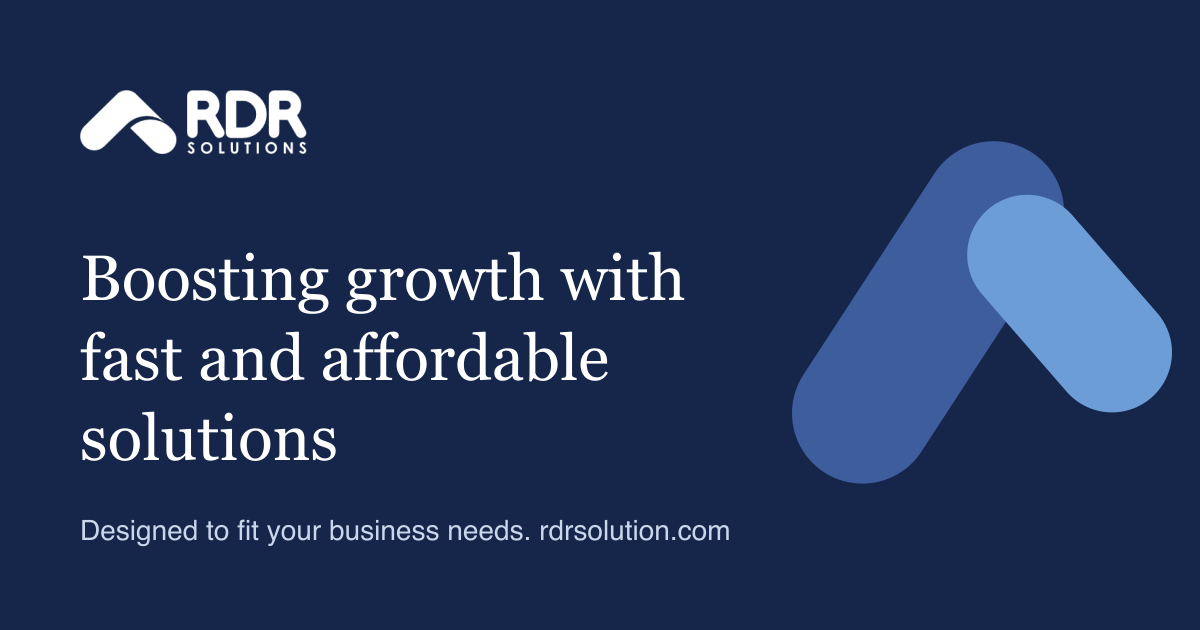
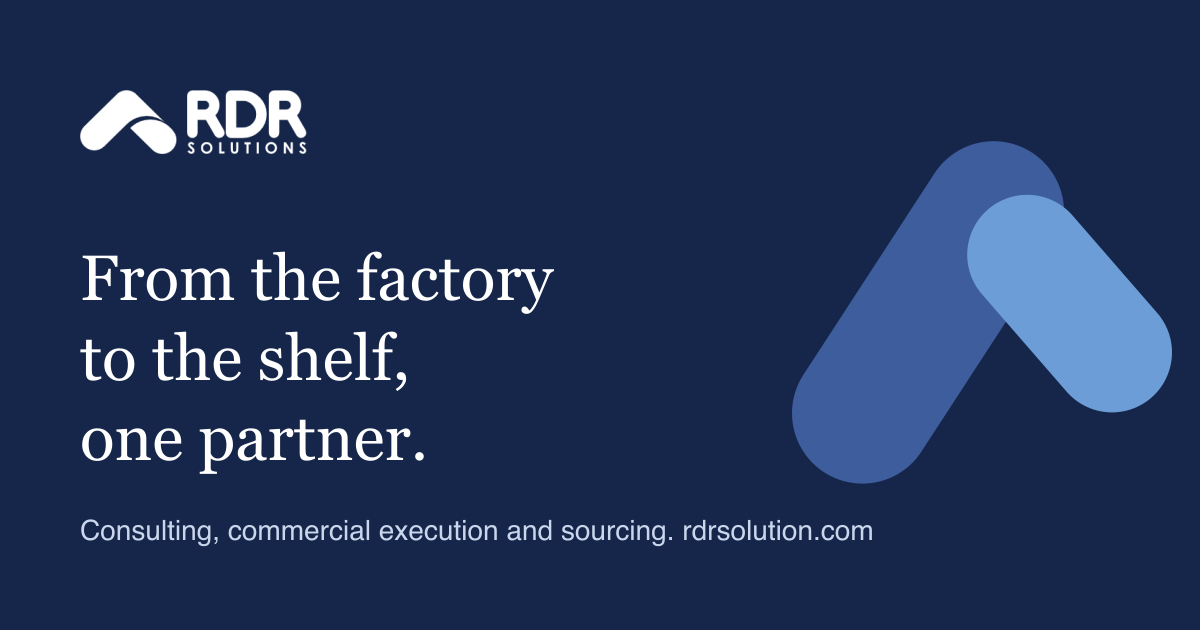
Phase 2: hero repositioning and signature load
- H1 'From the factory to the shelf, one partner.' at clamp(44px,6vw,76px)
- New subhead and meta/OG copy for consumer-brand positioning
- Logo-mark visual 560x640 at >=1280px (420x480 at 1024-1279 to keep
  H1 to 3 lines), above the H1 at 280px on mobile
- Global-brand logo strip under CTAs, scroll-snap on small screens
- Mark draws in 900ms cubic-bezier(0.22,1,0.36,1), then photo fades in
- Container widened to 80rem so the strip fits one row on desktop

Changed region(s): [[0.0617, 0.3921, 0.5858, 0.6032], [0.0617, 0.8143, 0.74, 0.8746], [0.0617, 0.6635, 0.3392, 0.754]]

diff --git a/src/components/Hero.jsx b/src/components/Hero.jsx
@@ -1,12 +1,16 @@
 import Image from "next/image";
 import Link from "next/link";
 
-// The hero visual rebuilds the chevron from the RDR mark: the rising leg is a
-// window onto the warehouse, the falling leg is the logo's lighter blue.
-const Chevron = () => (
-  <div className="relative mx-auto aspect-square w-full max-w-[22rem] sm:max-w-[30rem] lg:max-w-[36rem]">
+import { brands } from "@/content/site";
+
+const globalBrands = brands.filter((brand) => brand.group === "global");
+
+// The hero visual rebuilds the RDR logo mark: the rising leg is a window onto
+// the warehouse, the falling leg is the logo's lighter blue.
+const LogoMark = () => (
+  <div className="relative aspect-[560/640] w-[245px] sm:w-[300px] lg:w-[420px] xl:w-[560px]">
     <div
-      className="hero-leg-left absolute inset-0"
+      className="mark-leg-rise absolute inset-0 bg-brand"
       style={{
         maskImage: "url(/assets/images/chevron-mask.svg)",
         WebkitMaskImage: "url(/assets/images/chevron-mask.svg)",
@@ -14,43 +18,66 @@ const Chevron = () => (
         WebkitMaskSize: "100% 100%",
       }}
     >
-      <Image
-        src="/assets/images/photos/warehouse-aisle.jpg"
-        alt=""
-        fill
-        priority
-        sizes="(min-width: 1024px) 36rem, (min-width: 640px) 30rem, 22rem"
-        quality={55}
-        className="object-cover object-[50%_30%]"
-      />
-      <div className="absolute inset-0 bg-brand/25 mix-blend-multiply" />
+      <div className="mark-photo absolute inset-0">
+        <Image
+          src="/assets/images/photos/warehouse-aisle.jpg"
+          alt=""
+          fill
+          priority
+          sizes="(min-width: 1280px) 560px, (min-width: 1024px) 420px, (min-width: 640px) 300px, 245px"
+          quality={55}
+          className="object-cover object-[50%_30%]"
+        />
+        <div className="absolute inset-0 bg-brand/25 mix-blend-multiply" />
+      </div>
     </div>
 
     <svg
-      viewBox="0 0 560 560"
-      className="hero-leg-right absolute inset-0 h-full w-full"
+      viewBox="0 0 560 640"
+      className="mark-leg-fall absolute inset-0 h-full w-full"
       aria-hidden="true"
     >
       <line
-        x1="326"
-        y1="184"
-        x2="448"
-        y2="322"
+        x1="344"
+        y1="206"
+        x2="458"
+        y2="364"
         stroke="#16264A"
         strokeOpacity="0.28"
-        strokeWidth="140"
+        strokeWidth="158"
         strokeLinecap="round"
       />
       <line
-        x1="336"
-        y1="192"
-        x2="452"
-        y2="322"
+        x1="354"
+        y1="214"
+        x2="462"
+        y2="364"
         stroke="#6C9DD7"
-        strokeWidth="132"
+        strokeWidth="150"
         strokeLinecap="round"
       />
     </svg>
+  </div>
+);
+
+const BrandStrip = () => (
+  <div className="mt-12">
+    <p className="text-[13px] font-semibold uppercase tracking-[0.08em] text-harbor/70">
+      Brands in our network
+    </p>
+    <ul className="no-scrollbar -mx-5 mt-4 flex snap-x snap-mandatory items-center gap-10 overflow-x-auto px-5 sm:mx-0 sm:px-0">
+      {globalBrands.map((brand) => (
+        <li key={brand.name} className="shrink-0 snap-start">
+          <Image
+            src={`/assets/images/Brands/${brand.file}`}
+            alt={brand.name}
+            width={Math.round(32 * brand.ratio)}
+            height={32}
+            className="h-8 w-auto"
+          />
+        </li>
+      ))}
+    </ul>
   </div>
 );
 
@@ -58,26 +85,30 @@ const Hero = () => {
   return (
     <section
       aria-labelledby="hero-title"
-      className="relative overflow-hidden pb-16 pt-10 md:pb-24 md:pt-16 lg:pb-28"
+      className="relative overflow-hidden pb-16 pt-8 md:pb-24 md:pt-14 lg:pb-28"
     >
-      <div className="page-x grid items-center gap-12 md:grid-cols-12 md:gap-6 lg:gap-8">
-        <div className="md:col-span-7">
+      <div className="page-x grid items-center gap-10 sm:grid-cols-[minmax(0,1fr)_300px] sm:gap-8 lg:grid-cols-[minmax(0,1fr)_420px] lg:gap-8 xl:grid-cols-[minmax(0,1fr)_560px]">
+        <div className="sm:order-2">
+          <LogoMark />
+        </div>
+
+        <div className="min-w-0 sm:order-1">
           <h1
             id="hero-title"
-            className="hero-rise max-w-[14ch] font-serif text-[2.75rem] leading-[1.02] tracking-[-0.02em] text-harbor sm:text-6xl md:text-[3.6rem] lg:text-[5.25rem]"
+            className="hero-rise max-w-[13ch] font-serif text-[clamp(44px,6vw,76px)] leading-none tracking-[-0.02em] text-harbor"
             style={{ animationDelay: "80ms" }}
           >
-            Boosting growth with fast, simple solutions
+            From the factory to the shelf, one partner.
           </h1>
           <p
-            className="hero-rise mt-6 max-w-[34ch] text-lg leading-relaxed text-ink/80 sm:text-xl"
+            className="hero-rise mt-6 max-w-[40ch] text-lg leading-relaxed text-ink/80 sm:text-xl"
             style={{ animationDelay: "200ms" }}
           >
-            Designed to fit your business needs. Consulting, commercial
-            execution, sourcing and websites, from one partner.
+            Consulting, commercial execution and sourcing for consumer brands
+            that want to grow in retail — plus the website to match.
           </p>
           <div
-            className="hero-rise mt-9 flex flex-col gap-3 sm:flex-row"
+            className="hero-rise mt-9 flex flex-col gap-3 sm:flex-row sm:flex-wrap"
             style={{ animationDelay: "320ms" }}
           >
             <Link href="/contact" className="btn-signal">
@@ -87,10 +118,9 @@ const Hero = () => {
               See our services
             </Link>
           </div>
-        </div>
-
-        <div className="md:col-span-5">
-          <Chevron />
+          <div className="hero-rise" style={{ animationDelay: "440ms" }}>
+            <BrandStrip />
+          </div>
         </div>
       </div>
     </section>

diff --git a/src/content/site.js b/src/content/site.js
@@ -32,21 +32,21 @@ export const navLinks = [
   { label: "Shop", href: "/shop", hidden: true },
 ];
 
-// `ratio` is width / height of the trimmed logo file; used to size logos by area.
+// `ratio` is width / height of the trimmed logo file.
 export const brands = [
-  { name: "Colgate", file: "Colgate_logo.webp", ratio: 3.95 },
-  { name: "Palmolive", file: "Palmolive_logo.webp", ratio: 3.25 },
-  { name: "Fabuloso", file: "Fabuloso_logo.webp", ratio: 2.33 },
-  { name: "Ajax", file: "Ajax_logo.webp", ratio: 1.21 },
-  { name: "Suavitel", file: "Suavitel_logo.webp", ratio: 2.15 },
-  { name: "Fiori Bruna", file: "Fiori_Bruna_Logo.webp", ratio: 8.35 },
-  { name: "Bambú", file: "Bambu_logo.webp", ratio: 2.8 },
-  { name: "Guarina", file: "Guarina_logo.webp", ratio: 1.45 },
-  { name: "Lavador", file: "Lavador_logo.webp", ratio: 3.36 },
-  { name: "Magnifico", file: "Magnifico_logo.webp", ratio: 1.93 },
-  { name: "L'Dorado", file: "LDorado_logo.webp", ratio: 1.43 },
-  { name: "Ardil", file: "Ardil_logo.webp", ratio: 2.84 },
-  { name: "Tips Calbaq", file: "Tips_calbaq_logo.webp", ratio: 1.67 },
+  { name: "Colgate", file: "Colgate_logo.webp", ratio: 3.95, group: "global" },
+  { name: "Palmolive", file: "Palmolive_logo.webp", ratio: 3.25, group: "global" },
+  { name: "Fabuloso", file: "Fabuloso_logo.webp", ratio: 2.33, group: "global" },
+  { name: "Ajax", file: "Ajax_logo.webp", ratio: 1.21, group: "global" },
+  { name: "Suavitel", file: "Suavitel_logo.webp", ratio: 2.15, group: "global" },
+  { name: "Fiori Bruna", file: "Fiori_Bruna_Logo.webp", ratio: 8.35, group: "regional" },
+  { name: "Bambú", file: "Bambu_logo.webp", ratio: 2.8, group: "regional" },
+  { name: "Guarina", file: "Guarina_logo.webp", ratio: 1.45, group: "regional" },
+  { name: "Lavador", file: "Lavador_logo.webp", ratio: 3.36, group: "regional" },
+  { name: "Magnifico", file: "Magnifico_logo.webp", ratio: 1.93, group: "regional" },
+  { name: "L'Dorado", file: "LDorado_logo.webp", ratio: 1.43, group: "regional" },
+  { name: "Ardil", file: "Ardil_logo.webp", ratio: 2.84, group: "regional" },
+  { name: "Tips Calbaq", file: "Tips_calbaq_logo.webp", ratio: 1.67, group: "regional" },
 ];
 
 export const services = [

diff --git a/src/app/globals.css b/src/app/globals.css
@@ -87,7 +87,9 @@
   }
 }
 
-@keyframes draw-left {
+/* Signature load: the logo mark draws in (rising leg, then falling leg), then
+   the photo fades into the rising leg. */
+@keyframes mark-rise {
   from {
     clip-path: inset(100% 0 0 0);
   }
@@ -96,14 +98,21 @@
   }
 }
 
-@keyframes draw-right {
+@keyframes mark-fall {
+  from {
+    clip-path: inset(0 100% 0 0);
+  }
+  to {
+    clip-path: inset(0 0 0 0);
+  }
+}
+
+@keyframes fade-in {
   from {
     opacity: 0;
-    transform: translate(-24px, 24px);
   }
   to {
     opacity: 1;
-    transform: none;
   }
 }
 
@@ -111,12 +120,24 @@
   animation: rise 800ms cubic-bezier(0.2, 0.7, 0.2, 1) both;
 }
 
-.hero-leg-left {
-  animation: draw-left 1100ms cubic-bezier(0.65, 0, 0.35, 1) 150ms both;
+.mark-leg-rise {
+  animation: mark-rise 900ms cubic-bezier(0.22, 1, 0.36, 1) both;
 }
 
-.hero-leg-right {
-  animation: draw-right 800ms cubic-bezier(0.2, 0.7, 0.2, 1) 900ms both;
+.mark-leg-fall {
+  animation: mark-fall 900ms cubic-bezier(0.22, 1, 0.36, 1) 300ms both;
+}
+
+.mark-photo {
+  animation: fade-in 500ms ease 900ms both;
+}
+
+.no-scrollbar {
+  scrollbar-width: none;
+}
+
+.no-scrollbar::-webkit-scrollbar {
+  display: none;
 }
 
 /* Network diagram reveal, triggered once when it scrolls into view. */

diff --git a/src/app/layout.js b/src/app/layout.js
@@ -17,9 +17,9 @@ const newsreader = Newsreader({
   display: "swap",
 });
 
-const title = "RDR Solutions — Business services for growing brands";
+const title = "RDR Solutions — From the factory to the shelf, one partner";
 const description =
-  "Boosting growth with fast solutions designed to fit your business needs. Consulting, commercial execution, sourcing strategies and website development.";
+  "Consulting, commercial execution and sourcing for consumer brands that want to grow in retail, plus the website to match.";
 
 export const metadata = {
   metadataBase: new URL("https://rdrsolution.com"),

diff --git a/tailwind.config.js b/tailwind.config.js
@@ -20,7 +20,7 @@ module.exports = {
         serif: ["var(--font-newsreader)", "Georgia", "serif"],
       },
       maxWidth: {
-        page: "78rem",
+        page: "80rem",
       },
       screens: {
         "3xl": "2000px",
